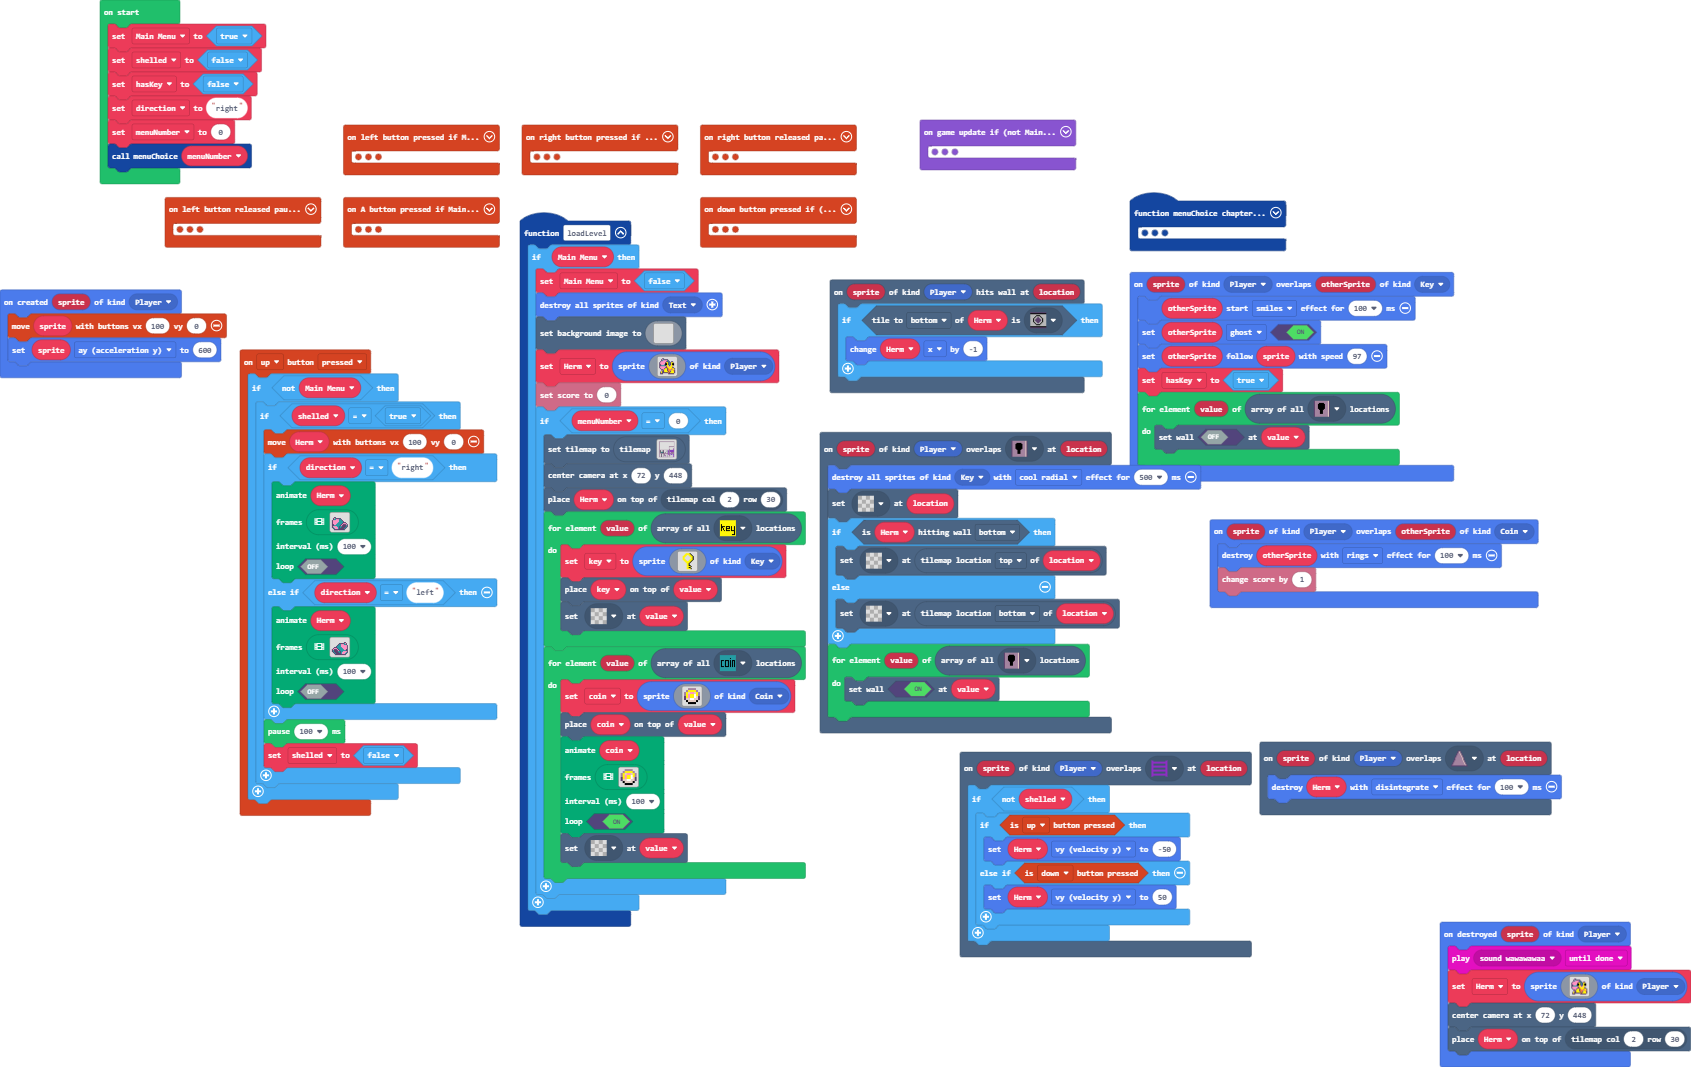
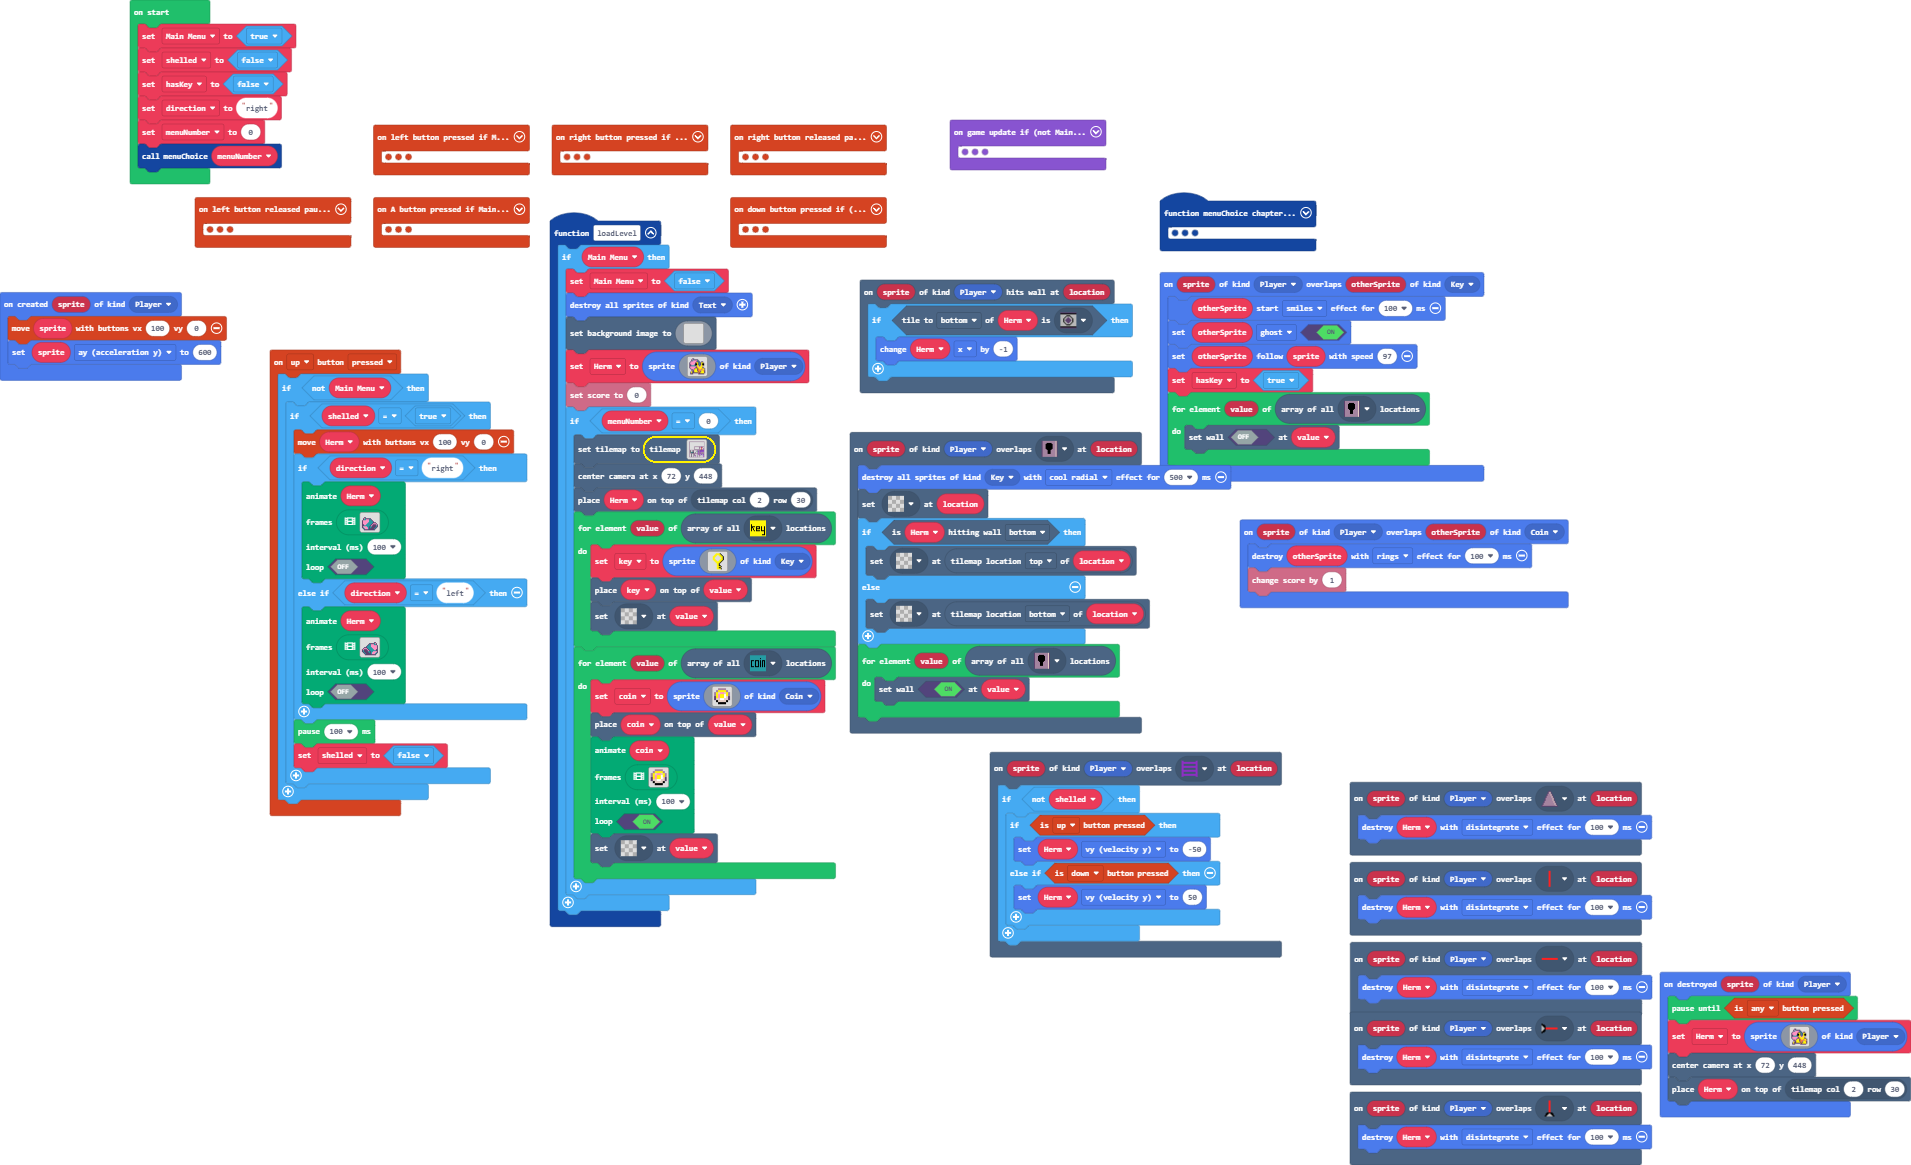
Update main.blocks, main.ts, tilemap.g.jres, tilemap.g.ts

diff --git a/tilemap.g.ts b/tilemap.g.ts
@@ -26,6 +26,16 @@ namespace myTiles {
     export const tile11 = image.ofBuffer(hex``);
     //% fixedInstance jres blockIdentity=images._tile
     export const tile12 = image.ofBuffer(hex``);
+    //% fixedInstance jres blockIdentity=images._tile
+    export const tile13 = image.ofBuffer(hex``);
+    //% fixedInstance jres blockIdentity=images._tile
+    export const tile14 = image.ofBuffer(hex``);
+    //% fixedInstance jres blockIdentity=images._tile
+    export const tile15 = image.ofBuffer(hex``);
+    //% fixedInstance jres blockIdentity=images._tile
+    export const tile16 = image.ofBuffer(hex``);
+    //% fixedInstance jres blockIdentity=images._tile
+    export const tile17 = image.ofBuffer(hex``);
 
     helpers._registerFactory("tilemap", function(name: string) {
         switch(helpers.stringTrim(name)) {
@@ -87,7 +97,7 @@ namespace myTiles {
 . . . . . . . . . . . . . . . . 
 `, [myTiles.transparency16], TileScale.Sixteen);
             case "level2":
[2 lines of base64/hex data omitted]
 222222222222222222222222222222
 2............................2
 2............................2
@@ -98,20 +108,20 @@ namespace myTiles {
 2............................2
 2............................2
 2............................2
-2..................22222222222
-2..................2.........2
-2..................2.........2
-2..................2.........2
-2..................2........22
-2..................2.........2
-2..................22........2
+2...................2222222222
+2...................2........2
+2...................2.2...2..2
+2..................22...2...22
+2..........................222
+2........................2...2
+2........................22..2
 2222222222222222222222222222.2
 2..................22........2
 2..................22........2
 2..................22........2
 2...........22...2.22........2
-2..........22......22..2222222
-2.22222222222......22..2222222
+2..........22......22........2
+2.22222222222......22.22222222
 2.2222222222222222.22.22222222
 2........22........22........2
 2........22........22........2
@@ -119,8 +129,8 @@ namespace myTiles {
 2........22.2......222.......2
 2..................2.........2
 2..................2.........2
-222222222222222222222222222222
-`, [myTiles.transparency16,myTiles.tile1,myTiles.tile2,myTiles.tile4,myTiles.tile5,myTiles.tile6,myTiles.tile7,myTiles.tile8,myTiles.tile3,myTiles.tile10,myTiles.tile11,myTiles.tile12], TileScale.Sixteen);
+222222222222222222222222..2222
+`, [myTiles.transparency16,myTiles.tile1,myTiles.tile2,myTiles.tile4,myTiles.tile5,myTiles.tile6,myTiles.tile7,myTiles.tile8,myTiles.tile3,myTiles.tile10,myTiles.tile12,myTiles.tile13,myTiles.tile15,myTiles.tile16,myTiles.tile17], TileScale.Sixteen);
         }
         return null;
     })
@@ -152,6 +162,16 @@ namespace myTiles {
             case "tile11":return tile11;
             case "myTile10":
             case "tile12":return tile12;
+            case "myTile11":
+            case "tile13":return tile13;
+            case "myTile12":
+            case "tile14":return tile14;
+            case "myTile13":
+            case "tile15":return tile15;
+            case "myTile14":
+            case "tile16":return tile16;
+            case "myTile15":
+            case "tile17":return tile17;
         }
         return null;
     })

diff --git a/main.ts b/main.ts
@@ -403,6 +403,12 @@ controller.left.onEvent(ControllerButtonEvent.Released, function () {
         }
     }
 })
+scene.onOverlapTile(SpriteKind.Player, assets.tile`myTile15`, function (sprite, location) {
+    sprites.destroy(Herm, effects.disintegrate, 100)
+})
+scene.onOverlapTile(SpriteKind.Player, assets.tile`myTile13`, function (sprite, location) {
+    sprites.destroy(Herm, effects.disintegrate, 100)
+})
 controller.left.onEvent(ControllerButtonEvent.Pressed, function () {
     if (Main_Menu) {
         if (!(menuNumber <= 0)) {
@@ -1089,7 +1095,7 @@ controller.down.onEvent(ControllerButtonEvent.Pressed, function () {
     }
 })
 sprites.onDestroyed(SpriteKind.Player, function (sprite) {
-    music.play(music.melodyPlayable(music.wawawawaa), music.PlaybackMode.UntilDone)
+    pauseUntil(() => controller.anyButton.isPressed())
     Herm = sprites.create(img`
         . . . c c . . . . . . . . . . . 
         . . c 3 6 c c c c . . . . . . . 
@@ -1114,6 +1120,12 @@ sprites.onDestroyed(SpriteKind.Player, function (sprite) {
 sprites.onCreated(SpriteKind.Player, function (sprite) {
     controller.moveSprite(sprite, 100, 0)
     sprite.ay = 600
+})
+scene.onOverlapTile(SpriteKind.Player, assets.tile`myTile14`, function (sprite, location) {
+    sprites.destroy(Herm, effects.disintegrate, 100)
+})
+scene.onOverlapTile(SpriteKind.Player, assets.tile`myTile11`, function (sprite, location) {
+    sprites.destroy(Herm, effects.disintegrate, 100)
 })
 let coin: Sprite = null
 let key: Sprite = null
